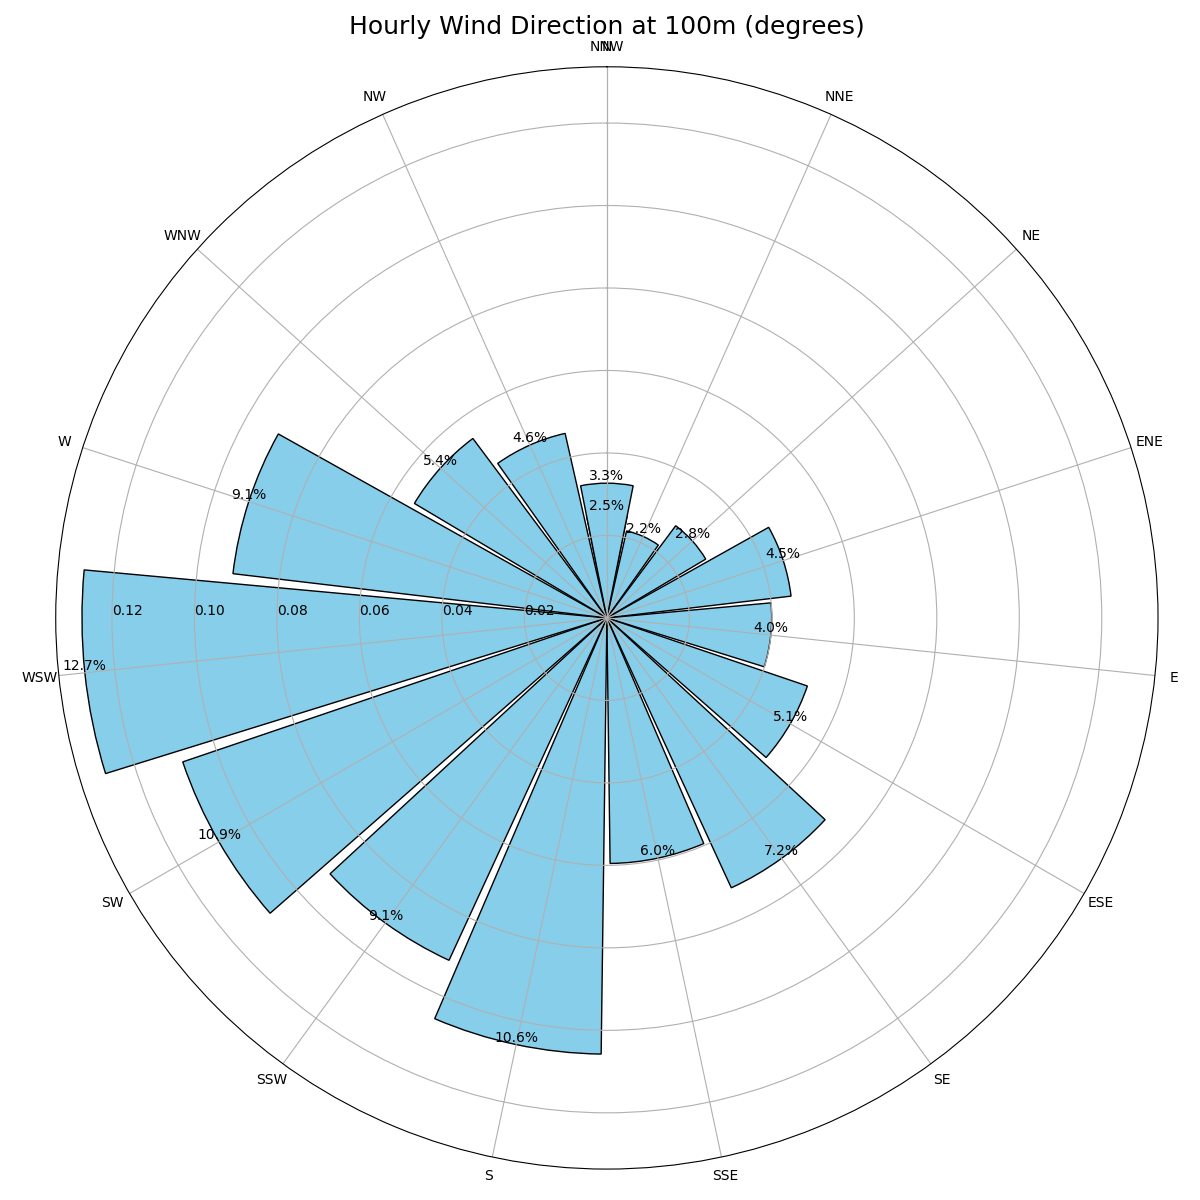
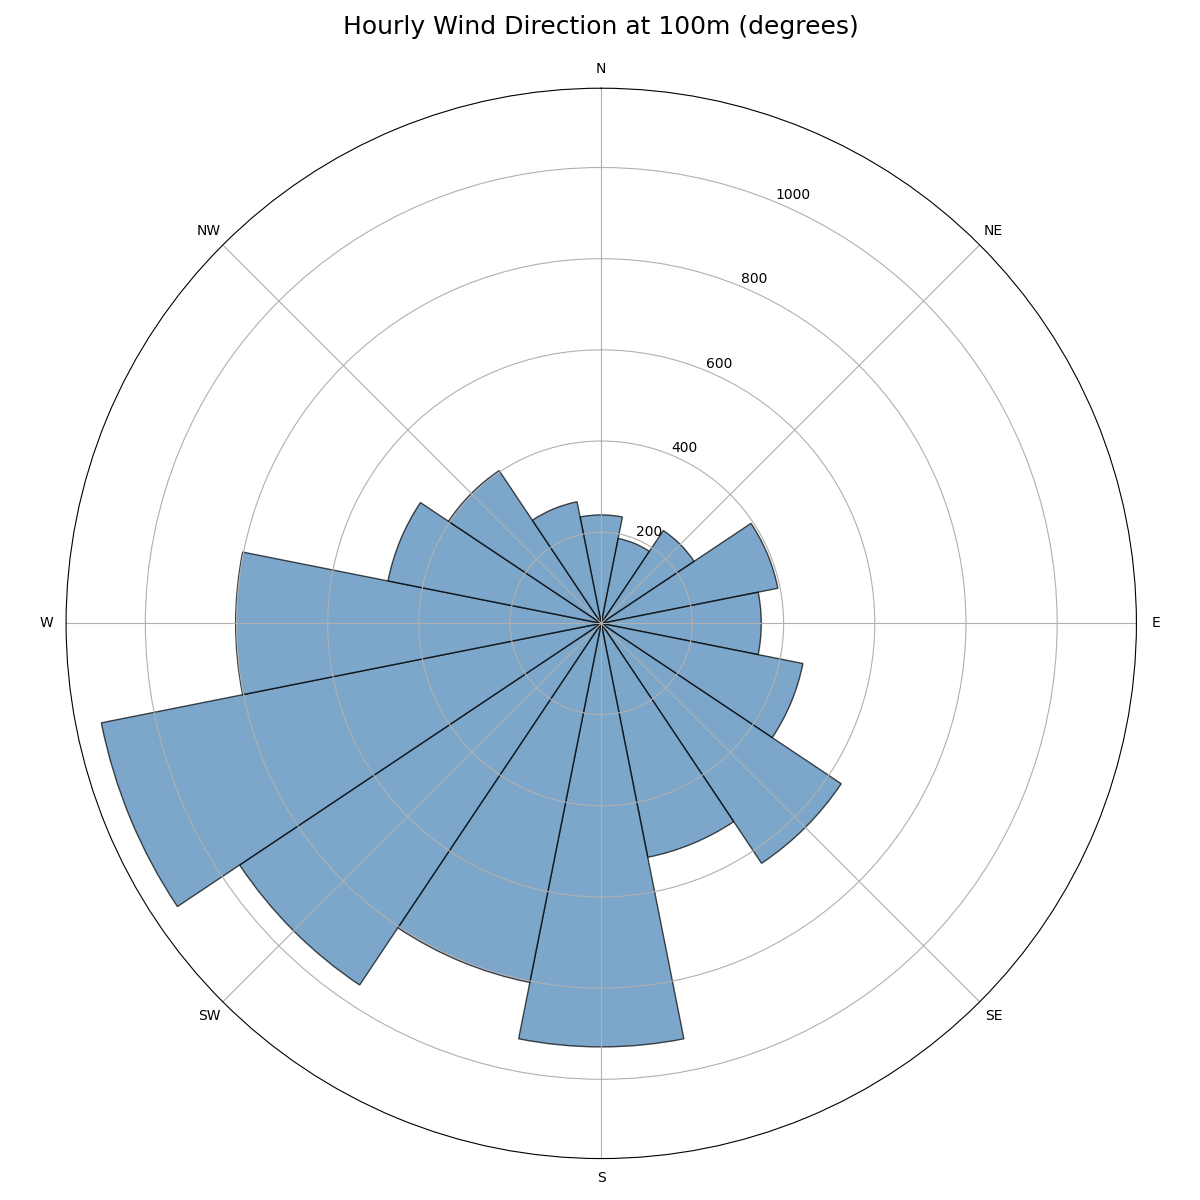
Replaced wind rose diagram

diff --git a/main.py b/main.py
@@ -61,42 +61,34 @@ def wind_direction():
 	plt.show()
 
 def wind_direction_plot(values, label):
-	# Define direction bins (16 cardinal directions)
-	bins = numpy.linspace(0, 360, 17)
-	directions = ['N', 'NNE', 'NE', 'ENE', 'E', 'ESE', 'SE', 'SSE', 'S', 'SSW', 'SW', 'WSW', 'W', 'WNW', 'NW', 'NNW']
-
-	# Calculate frequency of wind directions
-	hist, _ = numpy.histogram(values, bins=bins)
-	hist = hist / hist.sum()  # Normalize to percentages
-
-	# Create figure
 	fig = plt.figure(figsize=(12, 12))
-	ax = fig.add_subplot(111, polar=True)
+	ax = fig.add_subplot(111, projection='polar')
 
-	# Convert to radians and set North at top
-	theta = numpy.radians(numpy.linspace(0, 360, 16))
-	ax.set_theta_zero_location('N')
-	ax.set_theta_direction(-1)
+	# Convert degrees to radians and adjust for meteorological convention
+	theta = numpy.radians(values)
+	theta = theta % (2 * numpy.pi)  # Ensure values stay within 0-2π
+
+	# Create bins for directions (16 cardinal directions)
+	bins = numpy.linspace(0, 2*numpy.pi, 17)
+
+	# Calculate histogram
+	hist, _ = numpy.histogram(theta, bins=bins)
 
 	# Plot bars
-	width = 2 * numpy.pi / 16
-	bars = ax.bar(theta, hist, width=width, bottom=0.0, color='skyblue', edgecolor='black')
+	width = 2*numpy.pi/16  # Width of each bar
+	bars = ax.bar(bins[:-1], hist, width=width, color='#4682B4', alpha=0.7, edgecolor='black')
 
-	# Customize plot
-	ax.set_title(label, va='bottom', pad=20, fontsize=18)
+	# Customize the plot
+	ax.set_theta_zero_location('N')  # Put 0° (North) at top
+	ax.set_theta_direction(-1)       # Clockwise direction
+	ax.set_xticks(numpy.linspace(0, 2*numpy.pi, 8, endpoint=False))
+	ax.set_xticklabels(['N', 'NE', 'E', 'SE', 'S', 'SW', 'W', 'NW'])
 
-	# Set direction labels
-	ax.set_xticks(theta)
-	ax.set_xticklabels(directions)
-
-	# Add percentage labels
-	for bar, h in zip(bars, hist):
-		height = bar.get_height()
-		ax.text(bar.get_x() + bar.get_width()/2., height, f'{h*100:.1f}%', ha='center', va='bottom')
+	# Add title
+	plt.title(label, pad=20, fontsize=18)
 
 	# Add grid
 	ax.yaxis.grid(True)
-	ax.set_rlabel_position(270)
 
 	plt.tight_layout()
 
